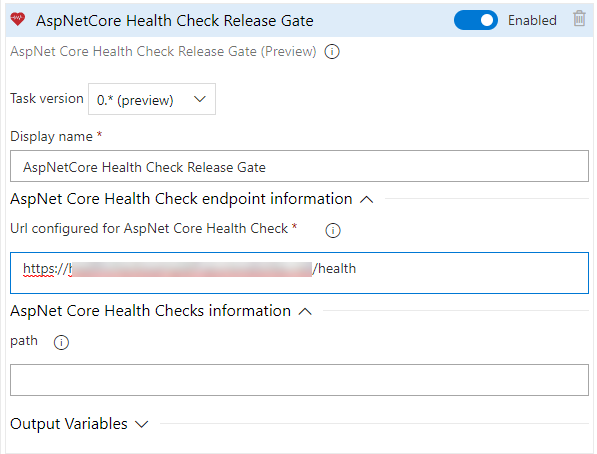
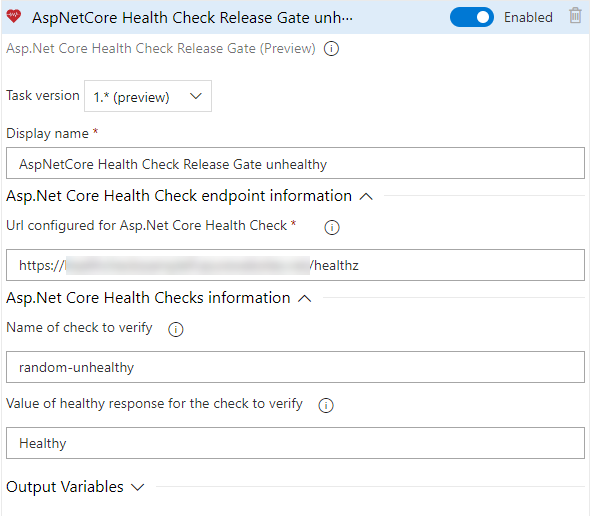
Changed order for parameters and documentation

diff --git a/AzureDevOpsTasks/README.md b/AzureDevOpsTasks/README.md
@@ -9,7 +9,7 @@ More info on [**Release Gates for Azure DevOps**](https://docs.microsoft.com/en-
 ### Prerequisites
 To use this extension first you must configure **Asp.Net Core Health Checks** in your desired application, to install it follow this [walk-through](https://docs.microsoft.com/en-us/aspnet/core/host-and-deploy/health-checks?view=aspnetcore-2.2)
 
-If you plan to filter **Health Checks** by name of a particular check, you also need the [**Health Check UI**](https://github.com/Xabaril/AspNetCore.Diagnostics.HealthChecks) with the default configuration.
+You also need the [**Health Check UI**](https://github.com/Xabaril/AspNetCore.Diagnostics.HealthChecks) as the Release Gate needs to call the endpoint returning the json information on Health Checks.
 
 Once installed and deployed, you can start use this extenstion to use Health Checks as Release Gates
 
@@ -23,11 +23,10 @@ When using int the basic mode, the Release Gate just checks the HTTP 200 OK resu
  To configure the extension in its basic form,you need to provide following parameters:
  - *Display name*: Name for the Release Gate.
  - *Url for Asp.Net Core Health Check*: Full url for your Asp.Net Core Health Check (i.e.: https://mywebsite.com/health).
+ - *Value of healthy response for the check to verify*: By default, when using [**Health Check UI**](https://github.com/Xabaril/AspNetCore.Diagnostics.HealthChecks) it is *Healthy*, but it can be changed in the [**Health Checks Response Writer**](https://docs.microsoft.com/en-us/aspnet/core/host-and-deploy/health-checks?view=aspnetcore-2.2#customize-output) so review it when configuring it.
 
 #### Filter by particular Health Check
 With this, we can filter out for a particular Health Check from the configured ones, but this requires a little bit more configuration both in the tasks and in your application code.
-
-To prepare the application you need to add and configure [**Health Check UI**](https://github.com/Xabaril/AspNetCore.Diagnostics.HealthChecks) package in your application.
 
 When configuring it, we also need to modify the HTTP responses for it, as the Release Gates always checks for the HTTP 200 OK code, and if some Health Checks fails, by default it returns an HTTP 503 Error, which will make the Release Gate fail no matter if the particular Health Check is Healthy or not. So we need to add this code when configuring Health Check UI:
 ``` C#

diff --git a/AzureDevOpsTasks/overview.md b/AzureDevOpsTasks/overview.md
@@ -9,7 +9,7 @@ More info on [**Release Gates for Azure DevOps**](https://docs.microsoft.com/en-
 ### Prerequisites
 To use this extension first you must configure **Asp.Net Core Health Checks** in your desired application, to install it follow this [walk-through](https://docs.microsoft.com/en-us/aspnet/core/host-and-deploy/health-checks?view=aspnetcore-2.2)
 
-If you plan to filter **Health Checks** by name of a particular check, you also need the [**Health Check UI**](https://github.com/Xabaril/AspNetCore.Diagnostics.HealthChecks) with the default configuration.
+You also need the [**Health Check UI**](https://github.com/Xabaril/AspNetCore.Diagnostics.HealthChecks) as the Release Gate needs to call the endpoint returning the json information on Health Checks.
 
 Once installed and deployed, you can start use this extenstion to use Health Checks as Release Gates
 
@@ -23,11 +23,10 @@ When using int the basic mode, the Release Gate just checks the HTTP 200 OK resu
  To configure the extension in its basic form,you need to provide following parameters:
  - *Display name*: Name for the Release Gate.
  - *Url for Asp.Net Core Health Check*: Full url for your Asp.Net Core Health Check (i.e.: https://mywebsite.com/health).
+ - *Value of healthy response for the check to verify*: By default, when using [**Health Check UI**](https://github.com/Xabaril/AspNetCore.Diagnostics.HealthChecks) it is *Healthy*, but it can be changed in the [**Health Checks Response Writer**](https://docs.microsoft.com/en-us/aspnet/core/host-and-deploy/health-checks?view=aspnetcore-2.2#customize-output) so review it when configuring it.
 
 #### Filter by particular Health Check
 With this, we can filter out for a particular Health Check from the configured ones, but this requires a little bit more configuration both in the tasks and in your application code.
-
-To prepare the application you need to add and configure [**Health Check UI**](https://github.com/Xabaril/AspNetCore.Diagnostics.HealthChecks) package in your application.
 
 When configuring it, we also need to modify the HTTP responses for it, as the Release Gates always checks for the HTTP 200 OK code, and if some Health Checks fails, by default it returns an HTTP 503 Error, which will make the Release Gate fail no matter if the particular Health Check is Healthy or not. So we need to add this code when configuring Health Check UI:
 ``` C#
